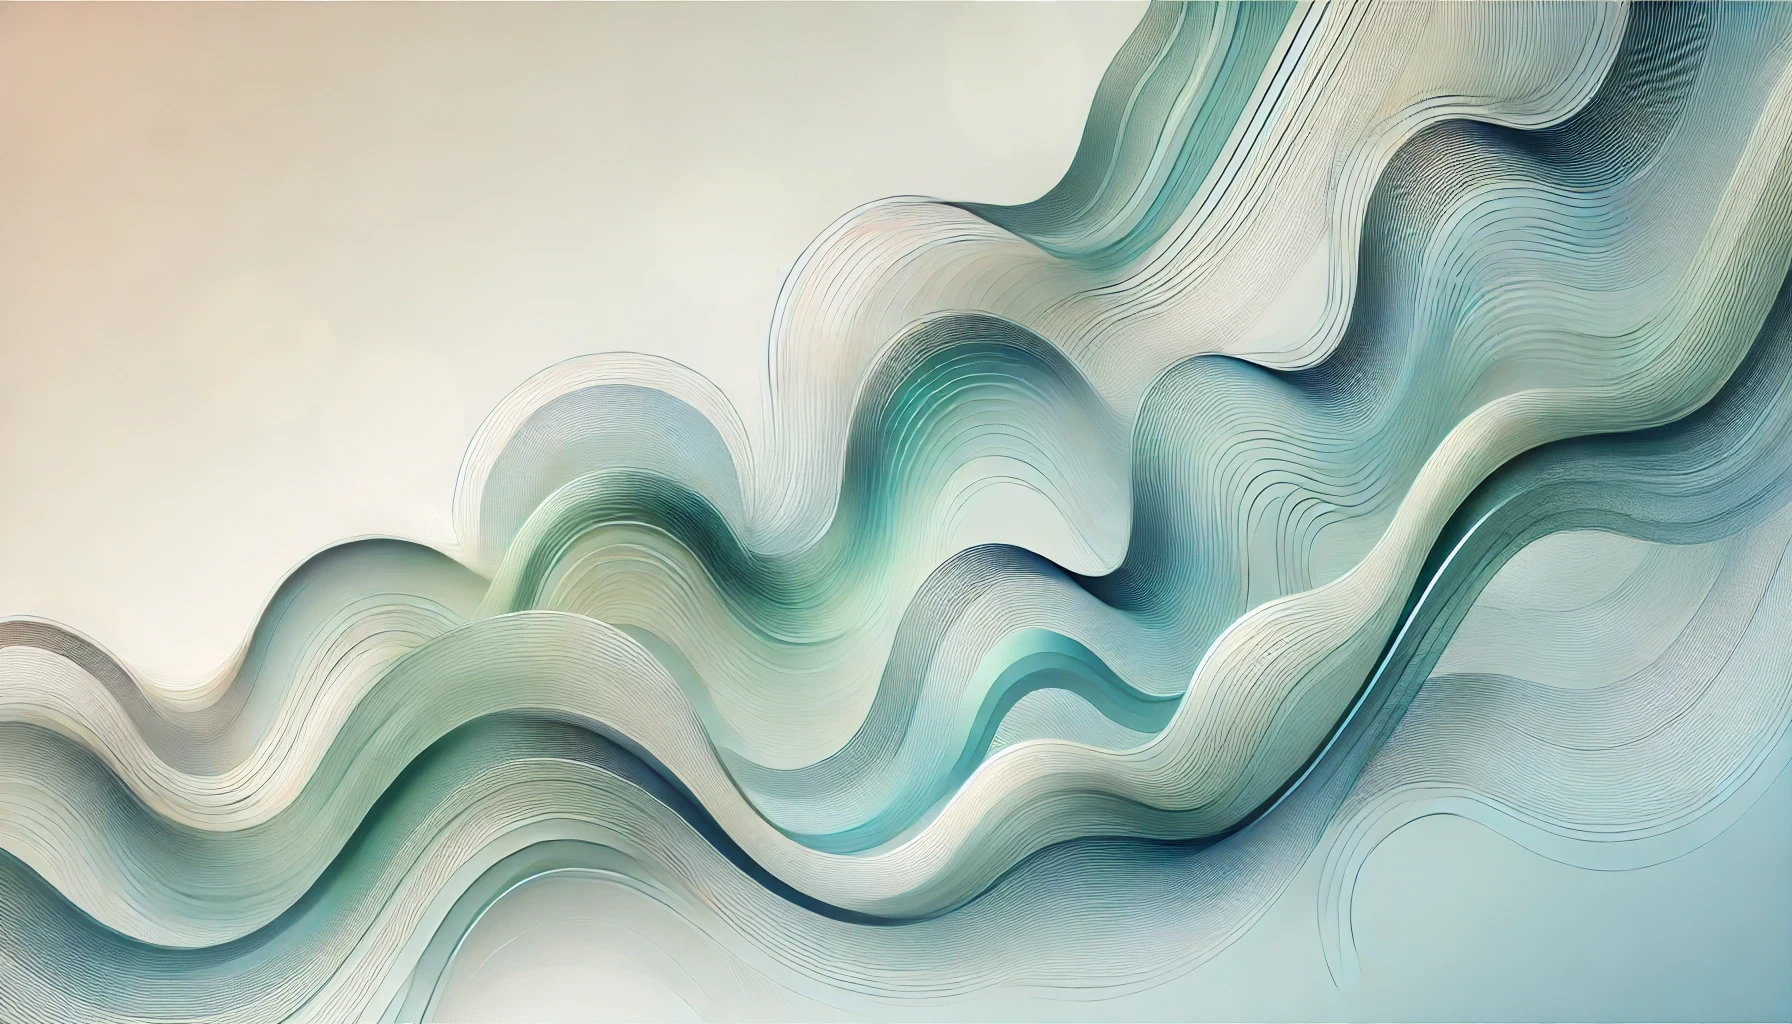
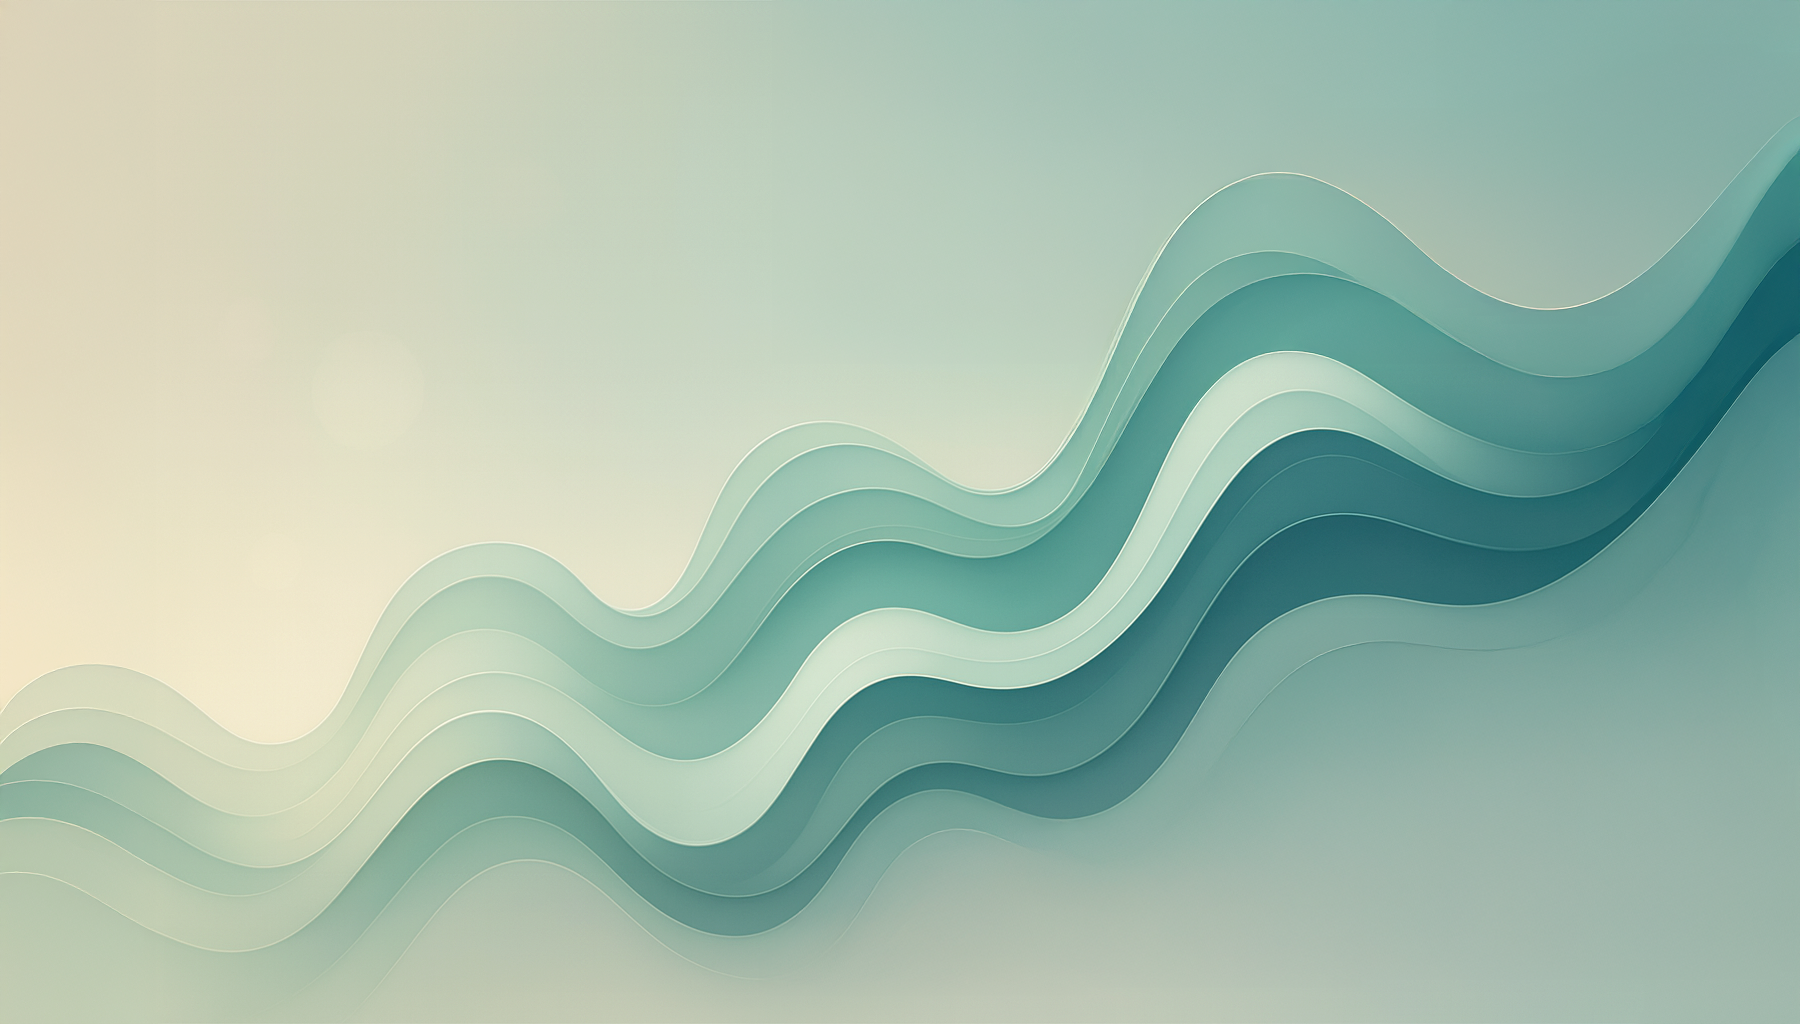
renewing pictures

diff --git a/index.html b/index.html
@@ -9,7 +9,7 @@
     <meta property="og:type" content="website" />
     <meta property="og:url" content="https://agenticlearning.ai/" />
     <!--Replace with the current website url-->
-    <meta property="og:image" content="https://agenticlearning.ai/assets/images/background/bg1.jpg" />
+    <meta property="og:image" content="https://agenticlearning.ai/assets/images/background/bg3.png" />
     <meta charset="UTF-8" />
     <meta name="viewport" content="width=device-width, initial-scale=1.0" />
     <title>agentic learning ai lab</title>
@@ -110,7 +110,7 @@
         class="tw-relative tw-flex tw-w-full tw-max-w-[100vw] tw-min-w-[350px] tw-flex-col tw-overflow-hidden tw-mt-[150px] tw-px-[5%] max-md:tw-px-4 max-lg:tw-px-4 lg:tw-justify-around xl:tw-justify-around">
         <div class="tw-flex tw-w-full tw-place-content-center tw-gap-6 max-xl:tw-place-items-center max-lg:tw-flex-col">
             <div class="image-container">
-                <img src="/assets/images/background/bg1.jpg" alt="app"
+                <img src="/assets/images/background/bg3.png" alt="app"
                     class="reveal-hero-img tw-z-[1] tw-h-full tw-w-full tw-object-contain" />
 
                 <div class="text-overlay">
@@ -439,142 +439,6 @@
                     Published: 2025-06-22
                     </p>
                     <!-- <a href=/research/discrete-jepa class="tw-mt-4"> -->
-                    <div  class="tw-mt-4">
-                        <span>Learn more</span>
-                        <i class="bi bi-arrow-right"></i>
-                    </div>
-                    <!-- </a> -->
-                </div>
-            </div>
-            </div>
-            </a>
-            <a href="/research/replay-can-provably-increase-forgetting">
-            <div class="safari-padding-fix">
-            <!-- reveal-up  -->
-            <!-- tw-rounded-lg  -->
-            <!-- hover:tw-shadow-lg tw-transition-shadow tw-duration-300 -->
-            <!-- max-lg:tw-max-w-[400px] -->
-            <div class="tw-flex tw-h-fit tw-break-inside-avoid tw-flex-col tw-gap-2 tw-border-transparent tw-border-2 hover:tw-border-solid hover:tw-border-gray-600 tw-bg-[#f3f3f3b4] tw-p-4 max-lg:tw-w-full tw-overflow-hidden tw-transition-all tw-duration-200">
-                <div class="tw-flex tw-place-items-center tw-gap-3">
-                    <!-- tw-rounded-lg -->
-                    <div class="tw-h-[300px] tw-w-full tw-overflow-hidden ">
-                        <img src=/assets/images/papers/replay_can_provably_increase_forgetting.png
-                            class="tw-h-full tw-w-full tw-object-cover"
-                            alt="design"/>
-                    </div>
-                    <!--  tw-transition-transform tw-duration-300 tw-transform hover:tw-scale-110 -->
-                </div>
-                <div class="tw-flex tw-flex-col tw-gap-2">
-                    <h3 class="tw-text-xl tw-font-medium tw-mt-4">Replay Can Provably Increase Forgetting</h3>
-                    <p class="tw-text-gray-600 tw-mt-4">
-                        We provide a theoretical analysis of sample replay in over-parameterized continual linear regression, and we show that replay can provably increase forgetting in the worst case even though the network has the capacity to memorize all tasks.
-                    </p>
-                    <p class="tw-mt-4">
-                    Published: 2025-06-04
-                    </p>
-                    <!-- <a href=/research/replay-can-provably-increase-forgetting class="tw-mt-4"> -->
-                    <div  class="tw-mt-4">
-                        <span>Learn more</span>
-                        <i class="bi bi-arrow-right"></i>
-                    </div>
-                    <!-- </a> -->
-                </div>
-            </div>
-            </div>
-            </a>
-            <a href="/research/memory-storyboard">
-            <div class="safari-padding-fix">
-            <!-- reveal-up  -->
-            <!-- tw-rounded-lg  -->
-            <!-- hover:tw-shadow-lg tw-transition-shadow tw-duration-300 -->
-            <!-- max-lg:tw-max-w-[400px] -->
-            <div class="tw-flex tw-h-fit tw-break-inside-avoid tw-flex-col tw-gap-2 tw-border-transparent tw-border-2 hover:tw-border-solid hover:tw-border-gray-600 tw-bg-[#f3f3f3b4] tw-p-4 max-lg:tw-w-full tw-overflow-hidden tw-transition-all tw-duration-200">
-                <div class="tw-flex tw-place-items-center tw-gap-3">
-                    <!-- tw-rounded-lg -->
-                    <div class="tw-h-[300px] tw-w-full tw-overflow-hidden ">
-                        <img src=/assets/images/papers/memory_storyboard.png
-                            class="tw-h-full tw-w-full tw-object-cover"
-                            alt="design"/>
-                    </div>
-                    <!--  tw-transition-transform tw-duration-300 tw-transform hover:tw-scale-110 -->
-                </div>
-                <div class="tw-flex tw-flex-col tw-gap-2">
-                    <h3 class="tw-text-xl tw-font-medium tw-mt-4">Memory Storyboard: Leveraging Temporal Segmentation for Streaming Self-Supervised Learning from Egocentric Videos</h3>
-                    <p class="tw-text-gray-600 tw-mt-4">
-                        Memory Storyboard groups recent past frames into temporal segments and provides effective summarization of the past visual streams for memory replay.
-                    </p>
-                    <p class="tw-mt-4">
-                    Published: 2025-01-21
-                    </p>
-                    <!-- <a href=/research/memory-storyboard class="tw-mt-4"> -->
-                    <div  class="tw-mt-4">
-                        <span>Learn more</span>
-                        <i class="bi bi-arrow-right"></i>
-                    </div>
-                    <!-- </a> -->
-                </div>
-            </div>
-            </div>
-            </a>
-            <a href="/research/are-llms-prescient">
-            <div class="safari-padding-fix">
-            <!-- reveal-up  -->
-            <!-- tw-rounded-lg  -->
-            <!-- hover:tw-shadow-lg tw-transition-shadow tw-duration-300 -->
-            <!-- max-lg:tw-max-w-[400px] -->
-            <div class="tw-flex tw-h-fit tw-break-inside-avoid tw-flex-col tw-gap-2 tw-border-transparent tw-border-2 hover:tw-border-solid hover:tw-border-gray-600 tw-bg-[#f3f3f3b4] tw-p-4 max-lg:tw-w-full tw-overflow-hidden tw-transition-all tw-duration-200">
-                <div class="tw-flex tw-place-items-center tw-gap-3">
-                    <!-- tw-rounded-lg -->
-                    <div class="tw-h-[300px] tw-w-full tw-overflow-hidden ">
-                        <img src=/assets/images/papers/are_llms_prescient.png
-                            class="tw-h-full tw-w-full tw-object-cover"
-                            alt="design"/>
-                    </div>
-                    <!--  tw-transition-transform tw-duration-300 tw-transform hover:tw-scale-110 -->
-                </div>
-                <div class="tw-flex tw-flex-col tw-gap-2">
-                    <h3 class="tw-text-xl tw-font-medium tw-mt-4">Are LLMs Prescient? A Continuous Evaluation using Daily News as Oracle</h3>
-                    <p class="tw-text-gray-600 tw-mt-4">
-                        Our new benchmark, Daily Oracle, automatically generates question-answer (QA) pairs from daily news, challenging LLMs to predict "future" events based on pre-training data.
-                    </p>
-                    <p class="tw-mt-4">
-                    Published: 2024-11-13
-                    </p>
-                    <!-- <a href=/research/are-llms-prescient class="tw-mt-4"> -->
-                    <div  class="tw-mt-4">
-                        <span>Learn more</span>
-                        <i class="bi bi-arrow-right"></i>
-                    </div>
-                    <!-- </a> -->
-                </div>
-            </div>
-            </div>
-            </a>
-            <a href="/research/poodle">
-            <div class="safari-padding-fix">
-            <!-- reveal-up  -->
-            <!-- tw-rounded-lg  -->
-            <!-- hover:tw-shadow-lg tw-transition-shadow tw-duration-300 -->
-            <!-- max-lg:tw-max-w-[400px] -->
-            <div class="tw-flex tw-h-fit tw-break-inside-avoid tw-flex-col tw-gap-2 tw-border-transparent tw-border-2 hover:tw-border-solid hover:tw-border-gray-600 tw-bg-[#f3f3f3b4] tw-p-4 max-lg:tw-w-full tw-overflow-hidden tw-transition-all tw-duration-200">
-                <div class="tw-flex tw-place-items-center tw-gap-3">
-                    <!-- tw-rounded-lg -->
-                    <div class="tw-h-[300px] tw-w-full tw-overflow-hidden ">
-                        <img src=/assets/images/papers/poodle.webp
-                            class="tw-h-full tw-w-full tw-object-cover"
-                            alt="design"/>
-                    </div>
-                    <!--  tw-transition-transform tw-duration-300 tw-transform hover:tw-scale-110 -->
-                </div>
-                <div class="tw-flex tw-flex-col tw-gap-2">
-                    <h3 class="tw-text-xl tw-font-medium tw-mt-4">PooDLe: Pooled and Dense Self-Supervised Learning from Naturalistic Videos</h3>
-                    <p class="tw-text-gray-600 tw-mt-4">
-                        We propose PooDLe, a self-supervised learning method that combines an invariance-based objective on pooled representations with a dense SSL objective that enforces equivariance to optical flow warping.
-                    </p>
-                    <p class="tw-mt-4">
-                    Published: 2024-08-20
-                    </p>
-                    <!-- <a href=/research/poodle class="tw-mt-4"> -->
                     <div  class="tw-mt-4">
                         <span>Learn more</span>
                         <i class="bi bi-arrow-right"></i>
